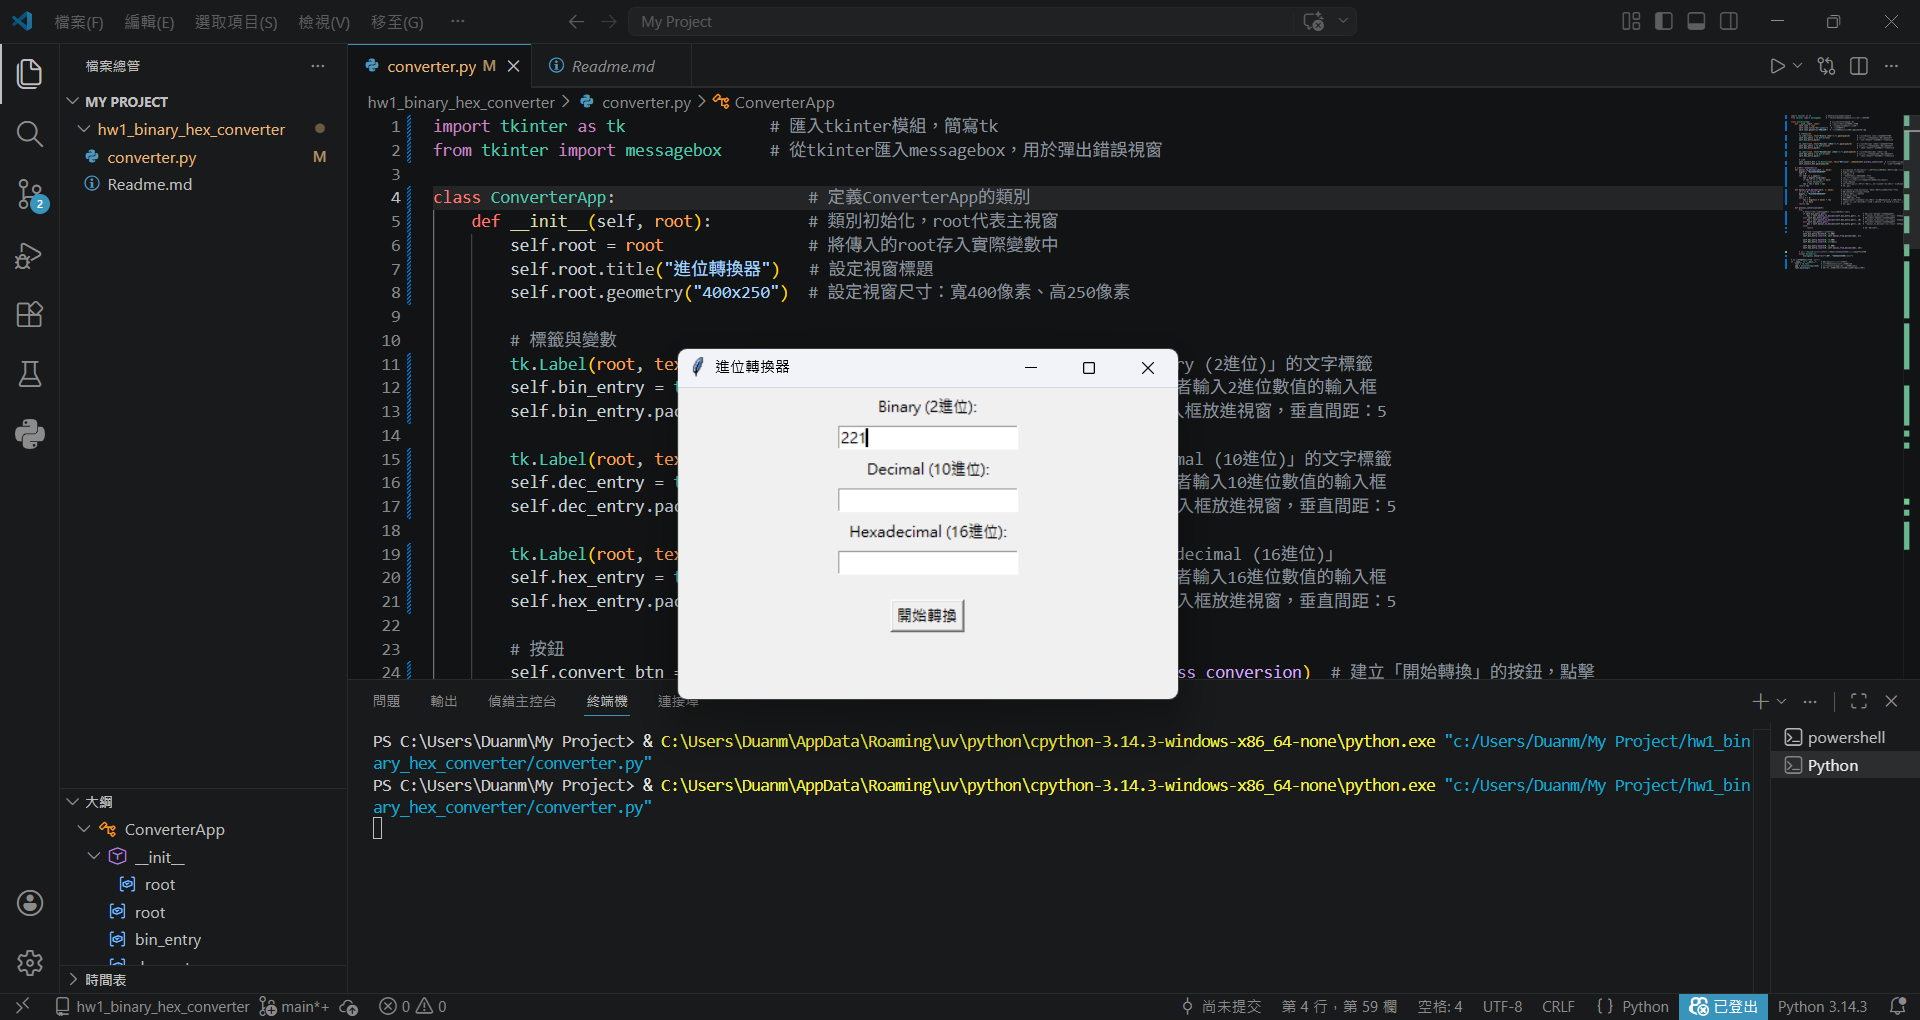
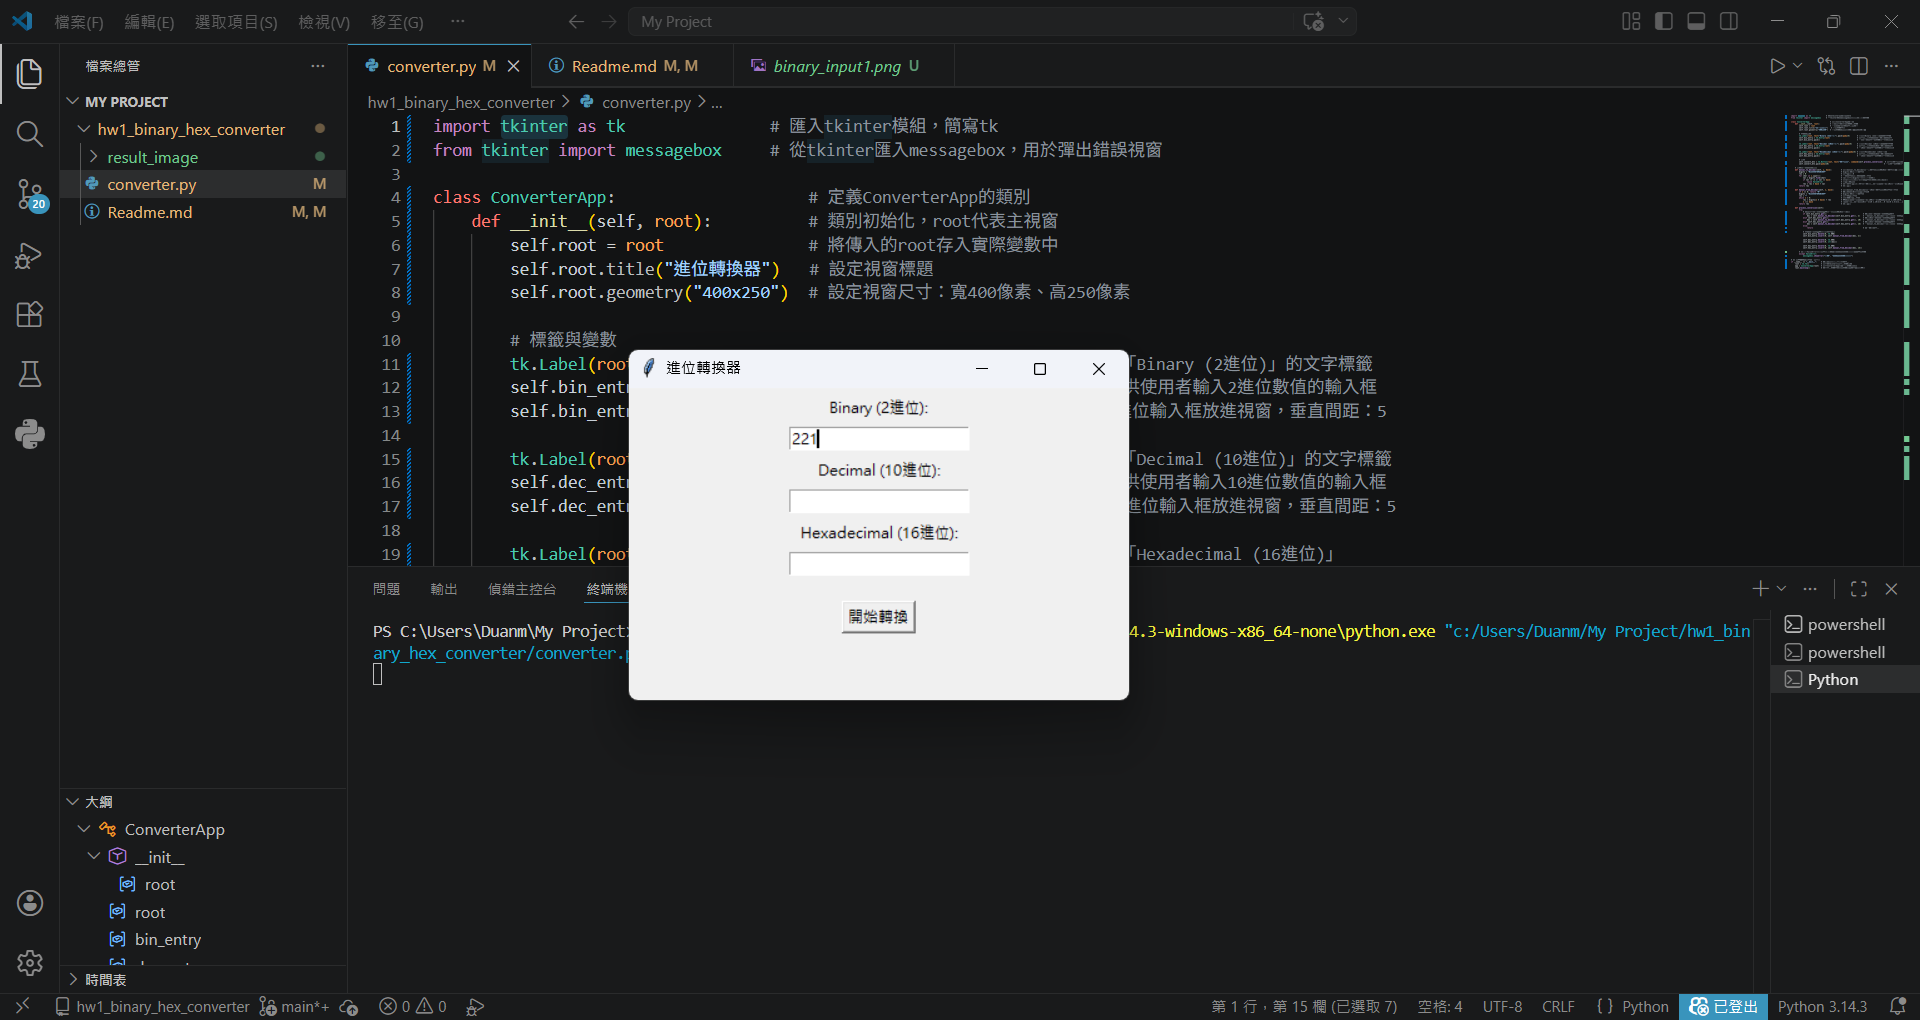
更新readme

diff --git a/HW1_binary_hex_converter/Readme.md b/HW1_binary_hex_converter/Readme.md
@@ -1,2 +1,36 @@
 # 簡介
 實現非使用內建函式，完成2進位(Binary)、10進位(Decimal)與16進位(Hexadecimal)之間的轉換，並提供圖形化使用者介面(GUI)
+
+# AI使用
+- 在圖形化介面(tkinter)部分，是完全由AI協助
+- 三種進位之間的轉換，有讓AI幫忙進行優化
+
+# 結果呈現
+_初始視窗_
+    ![顯示視窗](hw1_binary_hex_converter\result_image\converter_window.png)
+_二進位輸入與結果顯示_
+    ![二進位輸入範例](hw1_binary_hex_converter\result_image\binary_input1.png)
+    ![結果顯示視窗](hw1_binary_hex_converter\result_image\outcome1.png)
+
+_十進位輸入與結果顯示_
+    ![十進位輸入範例](hw1_binary_hex_converter\result_image\decimal_input2.png)
+    ![結果顯示視窗](hw1_binary_hex_converter\result_image\outcome2.png)
+
+_十六進位輸入與結果顯示_
+    ![十六進位輸入範例](hw1_binary_hex_converter\result_image\hexadecimal_input3.png)
+    ![結果顯示視窗](hw1_binary_hex_converter\result_image\outcome3.png)
+
+_大於255的輸入與結果顯示_
+    ![輸入範例](hw1_binary_hex_converter\result_image\more_than_255_input4.png)
+    ![結果顯示視窗](hw1_binary_hex_converter\result_image\outcome4.png)
+
+_錯誤的輸入與結果顯示_
+    **二進位錯誤輸入**
+            ![二進位錯誤輸入](hw1_binary_hex_converter\result_image\binary_error_input.png)
+            ![結果顯示視窗](hw1_binary_hex_converter\result_image\error_report_binary.png)
+    **十進位錯誤輸入**
+            ![十進位錯誤輸入](hw1_binary_hex_converter\result_image\decimal_error_input.png)
+            ![結果顯示視窗](hw1_binary_hex_converter\result_image\error_report_decimal.png)
+    **十六進位錯誤輸入**
+            ![十六進位錯誤輸入](hw1_binary_hex_converter\result_image\hexadecimal_error_input.png)
+            ![結果顯示視窗](hw1_binary_hex_converter\result_image\error_report_hexadecimal.png)
